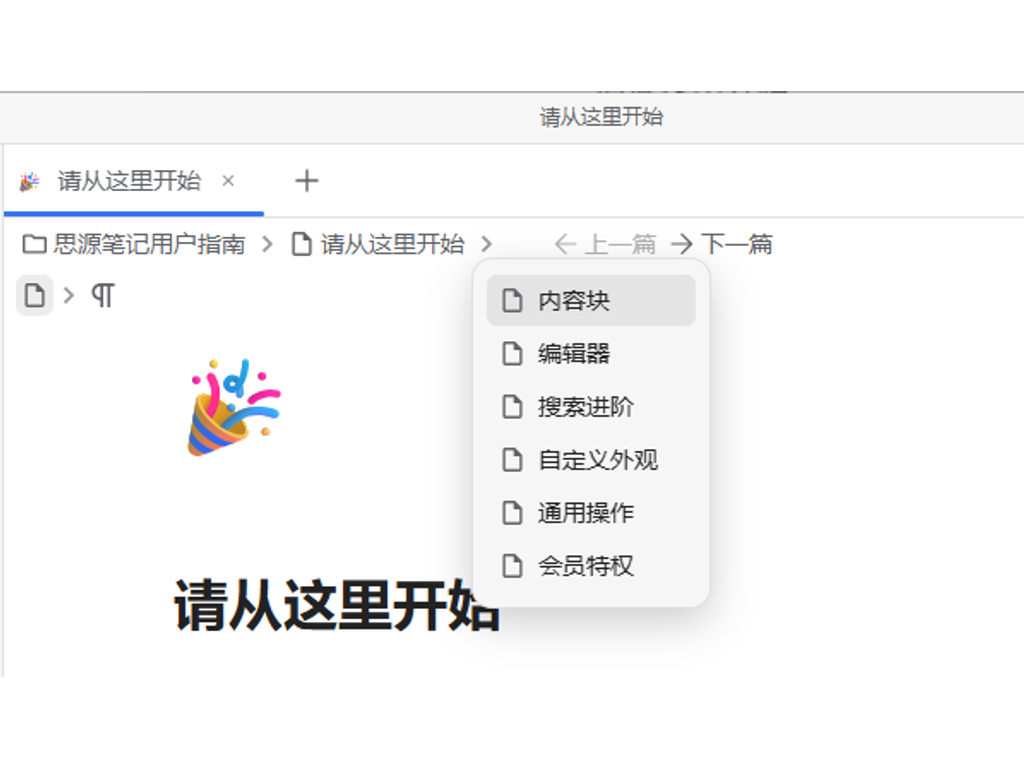
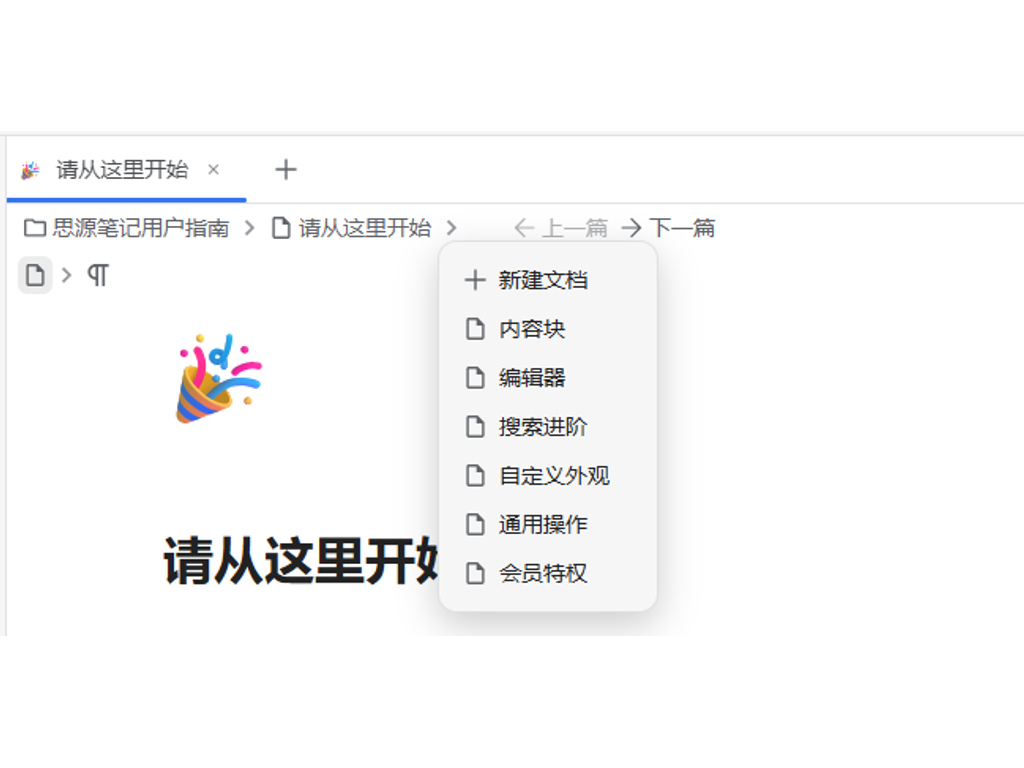
added createDoc

diff --git a/src/worker/contentInjector.ts b/src/worker/contentInjector.ts
@@ -1,11 +1,11 @@
 // 制作和插入面包屑
 
-import { type IProtyle, openTab, Menu } from "siyuan";
-import { type IProtyleInfo, getProtyleInfo, getAdjacentDocs, getChildDocs } from "@/utils/protyleUtils";
-import { removeInjectedFromProtyle } from "@/utils/DOMUtils";
-import { getPluginInstance } from "@/utils/pluginInstance";
+import { type IProtyle, Menu } from "siyuan";
 import { CONSTANTS } from "@/constants";
+import { getPluginInstance } from "@/utils/pluginInstance";
 import * as logger from "@/utils/logger";
+import { removeInjectedFromProtyle } from "@/utils/DOMUtils";
+import { type IProtyleInfo, getProtyleInfo, getAdjacentDocs, getChildDocs, openDocHandler, createDocHandler } from "@/utils/docUtils";
 
 
 /**
@@ -118,6 +118,8 @@ export class ContentInjector {
 
     /**
      * 构建面包屑层级之间的箭头
+     * @param notebookId - 笔记本id
+     * @param path - 文档路径
      * @returns {HTMLElement} - 面包屑箭头元素
      */
     createBreadcrumbArrow(notebookId: string, path: string): HTMLElement {
@@ -130,8 +132,87 @@ export class ContentInjector {
         elem.appendChild(svg);
 
         // 点击事件：打开子文档菜单
-        elem.addEventListener("click", openChildDocsHandler.bind(null, notebookId, path));
+        elem.addEventListener("click", this.listChildDocsHandler.bind(this, notebookId, path));
         return elem;
+    }
+
+    /**
+     * 点击事件：打开子文档菜单
+     * @param notebookId - 笔记本id
+     * @param path - 文档路径
+     * @param event - 鼠标事件
+     */
+    async listChildDocsHandler(notebookId: string, path: string, event: MouseEvent) {
+        // 阻止事件其他行为
+        event.stopPropagation();
+        event.preventDefault();
+
+        // log
+        logger.logDebug(`打开子文档菜单：notebookId=${notebookId}, path=${path}`);
+
+        // 获取信息
+        const i18n = getPluginInstance().i18n;
+
+        // 计算位置
+        // 当前元素（面包屑箭头）的位置信息
+        const currentTarget = event.currentTarget as HTMLElement;
+        const rect = currentTarget.getBoundingClientRect();
+        // 计算菜单最大宽度 = 相邻文档元素最右侧位置 - 面包屑箭头左侧位置
+        const nextTarget = currentTarget.parentElement.nextElementSibling; // 获取“相邻文档”元素
+        const rectNext = nextTarget.getBoundingClientRect();
+        const menuMaxWidth = rectNext.right - rect.left;
+
+        // 获取子文档
+        const childDocs = await getChildDocs(notebookId, path);
+
+        // 构建菜单
+        const menu = new Menu();
+        // 设置菜单项文本最大宽度
+        // const itemStyle = `display: inline-block; max-width: ${menuMaxWidth - Number(CONSTANTS.STYLE_CHILDDOCSMENUITEM_MAXWIDTH_DELTA)}px; overflow: clip; text-overflow: ellipsis;`;
+        // 不设置文本项最大宽度
+        const itemStyle = "";
+
+        // 新建文档项目
+        menu.addItem({
+            icon: "iconAdd",
+            label: `<span title="${i18n.createDoc}" style="${itemStyle}">${i18n.createDoc}</span>`,
+            click: (element, event) => {
+                createDocHandler(notebookId, path, event);
+            }
+        })
+
+        // 对每个子文档构建菜单项目
+        for (let i = 0; i < childDocs.length; i++) {
+            const childDoc = childDocs[i];
+            menu.addItem({
+                icon: "iconFile",
+                label: `<span title="${childDoc.name}" style="${itemStyle}">${childDoc.name}</span>`,
+                click: (element, event) => {
+                    openDocHandler(childDoc.id, event);
+                }
+            })
+        }
+        // 处理没有子文档的情况
+        // 取消原因：有了新建文档后，菜单至少有一项，不需要这个占位符了
+        // if (childDocs.length === 0) {
+        //     menu.addItem({
+        //         icon: "iconInfo",
+        //         label: `<span title="${i18n.noChildDocs}" style="opacity: ${CONSTANTS.STYLE_DISABLED_OPACITY}">${i18n.noChildDocs}</span>`,
+        //     })
+        // }
+
+        // 设置菜单属性
+        const menuElement = menu.element as HTMLElement;
+        if (menuElement) {
+            // menuElement.style.maxWidth = CONSTANTS.STYLE_CHILDDOCSMENU_MAXWIDTH;
+            menuElement.style.maxWidth = `${menuMaxWidth}px`;
+        }
+
+        // 设置打开菜单的位置：菜单左上角=面包屑箭头的左下角
+        menu.open({
+            x: rect.left, y: rect.bottom,
+        })
+
     }
 
     /**
@@ -263,94 +344,5 @@ function createSvg(className: string, iconName: string): SVGElement {
     return svg;
 }
 
-/**
- * 点击事件：打开文档
- * @param docId - 文档id
- * @param event - 鼠标事件
- */
-function openDocHandler(docId: string, event: MouseEvent) {
-    // 阻止事件其他行为
-    event.stopPropagation();
 
-    logger.logDebug(`点击打开文档：docId=${docId}`);
 
-    // 打开新标签页
-    openTab({
-        app: getPluginInstance().app,
-        doc: {
-            id: docId,
-        },
-        // 条件属性：只有在按下辅助按键时才添加position属性
-        // 如果多个键同时按下，后面属性覆盖前面
-        ...(event.altKey && { position: "right" }), // alt+单击时，在右侧打开页签
-        // ...(e.shiftKey && { position: "bottom" }),
-        keepCursor: event.ctrlKey? true : false, // ctrl+单击时，在后台打开页签
-    });
-}
-
-/**
- * 点击事件：打开子文档菜单
- * @param notebookId - 笔记本id
- * @param path - 文档路径
- * @param event - 鼠标事件
- */
-async function openChildDocsHandler(notebookId: string, path: string, event: MouseEvent) {
-    // 阻止事件其他行为
-    event.stopPropagation();
-    event.preventDefault();
-
-    logger.logDebug(`打开子文档菜单：notebookId=${notebookId}, path=${path}`);
-
-    // 获取信息
-    const i18n = getPluginInstance().i18n;
-
-    // 计算位置
-    // 当前元素（面包屑箭头）的位置信息
-    const currentTarget = event.currentTarget as HTMLElement;
-    const rect = currentTarget.getBoundingClientRect();
-    // 计算菜单最大宽度 = 相邻文档元素最右侧位置 - 面包屑箭头左侧位置
-    const nextTarget = currentTarget.parentElement.nextElementSibling; // 获取“相邻文档”元素
-    const rectNext = nextTarget.getBoundingClientRect();
-    const menuMaxWidth = rectNext.right - rect.left;
-
-    // 获取子文档
-    const childDocs = await getChildDocs(notebookId, path);
-
-    // 构建菜单
-    const menu = new Menu();
-    // 设置菜单项文本最大宽度
-    // const itemStyle = `display: inline-block; max-width: ${menuMaxWidth - Number(CONSTANTS.STYLE_CHILDDOCSMENUITEM_MAXWIDTH_DELTA)}px; overflow: clip; text-overflow: ellipsis;`;
-    // 不设置文本项最大宽度
-    const itemStyle = "";
-    // 对每个子文档构建菜单项目
-    for (let i = 0; i < childDocs.length; i++) {
-        const childDoc = childDocs[i];
-        menu.addItem({
-            icon: "iconFile",
-            label: `<span title="${childDoc.name}" style="${itemStyle}">${childDoc.name}</span>`,
-            click: (element, event) => {
-                openDocHandler(childDoc.id, event);
-            }
-        })
-    }
-    // 处理没有子文档的情况
-    if (childDocs.length === 0) {
-        menu.addItem({
-            icon: "iconInfo",
-            label: `<span title="${i18n.noChildDocs}" style="opacity: ${CONSTANTS.STYLE_DISABLED_OPACITY}">${i18n.noChildDocs}</span>`,
-        })
-    }
-
-    // 设置菜单属性
-    const menuElement = menu.element as HTMLElement;
-    if (menuElement) {
-        // menuElement.style.maxWidth = CONSTANTS.STYLE_CHILDDOCSMENU_MAXWIDTH;
-        menuElement.style.maxWidth = `${menuMaxWidth}px`;
-    }
-
-    // 设置打开菜单的位置：菜单左上角=面包屑箭头的左下角
-    menu.open({
-        x: rect.left, y: rect.bottom,
-    })
-
-}

diff --git a/README_zh_CN.md b/README_zh_CN.md
@@ -5,13 +5,13 @@
 
 Gitee仓库：[plugin-doc-breadcrumb-light](https://gitee.com/liao-zh/plugin-doc-breadcrumb-light)
 
-[English](./README.md)
+[English Readme](./README.md)
+
+[更新历史](./CHANGELOG.md)
 
 ## 简介
 
-本插件为思源笔记添加了一个简单便捷的文档面包屑，保持显示在已有的块面包屑的上方，并可快速跳转上一篇/下一篇。
-
-[更新历史](./CHANGELOG.md)
+本插件为思源笔记添加了一个简单便捷的文档面包屑，保持显示在已有的块面包屑的上方。可跳转上一篇/下一篇，列出子文档，新建文档。
 
 ## 如何安装
 
@@ -27,25 +27,48 @@ Gitee仓库：[plugin-doc-breadcrumb-light](https://gitee.com/liao-zh/plugin-doc
 
 预览文档：光标悬停在文本处时，显示对应的全名。悬停在图标处时，显示文档预览。
 
-子文档：单击面包屑层级间的箭头，显示箭头左侧层级的子文档的列表，单击可跳转，也支持Alt/Ctrl+单击。
+子文档：单击面包屑层级间的箭头，显示箭头左侧层级的子文档的列表，单击可跳转，支持Alt/Ctrl+单击。
+
+新建文档：单击面包屑层级间的箭头，在与列出文档的同层级新建文档，支持Alt/Ctrl+单击打开新文档。
 
 ## 代码说明
 
-简单起见，本插件没有设置页面。可以修改`src/constants.ts`中的变量来进行一些设置。
+方法：
+- 设置：可以修改`src/constants.ts`中的变量来进行一些设置。
+- 监听的事件：文档加载（loaded-protyle-static），文档切换（switch-protyle），文档修改（ws-main：moveDoc，rename，removeDoc）。
+- 相邻文档/子文档的查找：用了思源的API[/api/filetree/listDocsByPath](https://docs.siyuan-note.club/zh-Hans/reference/community/siyuan-sdk/kernel/api/filetree.html#listDocsByPath)，默认保持文档树中的顺序。
+- 新建文档：用思源API[/api/filetree/createDocWithMd](https://docs.siyuan-note.club/zh-Hans/reference/community/siyuan-sdk/kernel/api/filetree.html#createDocWithMd)创建文档。
 
-监听的事件：文档加载（loaded-protyle-static），文档切换（switch-protyle），文档修改（ws-main：moveDoc，rename，removeDoc）。
-
-插入的HTML元素：参照了思源块面包屑的DOM结构，使用了相同的类`div.protyle-breadcrumb`，因此继承了样式。
-
-相邻文档的查找：用了思源的API[/api/filetree/listDocsByPath](https://docs.siyuan-note.club/zh-Hans/reference/community/siyuan-sdk/kernel/api/filetree.html#listDocsByPath)，默认保持文档树中的顺序。
+代码结构：（未列出的部分与插件示例相同）
+```bash
+src/
+├── index.ts：插件入口
+├── constants.ts：设置
+├── worker/：用于执行主要功能
+│   ├── eventHandler.ts：监听事件
+│   ├── taskProcessor.ts：处理事件触发的任务
+│   ├── contentInjector.ts：对于每个任务，注入面包屑内容
+├── utils/：提供工具
+│   ├── api.ts：思源API的封装（来自示例）
+│   ├── pluginInstance.ts：插件实例的管理工具
+│   ├── DOMUtils.ts：处理DOM的工具
+│   ├── docUtils.ts：处理文档的工具
+│   ├── logger.ts：日志工具
+```
 
 ## 问题
 
 支持的平台：暂时不支持移动端。
 
-外观：使用集市中或自定义的外观时，如果改变了块面包屑样式，可能会对文档面包屑造成意想不到的改变。
+功能：
+- 新建文档：思源API新建文档用的是hpath，如果开始几个层级的名字相同，看上去会在顺序在前的路径下创建，而不一定在当前路径下。
 
-性能：如果相邻文档数量很多，查找时间可能较长。如果移动文档树，可能会触发大量moveDoc事件，导致插件大量的查找和更新操作。如果速度慢，执行大量操作之前，可以先把所有文档关闭。
+外观：
+- 使用集市中或自定义的外观时，如果改变了块面包屑样式，可能会对文档面包屑造成意想不到的改变。
+
+性能：
+- 如果移动文档树，可能会触发大量moveDoc事件，导致插件大量的查找和更新操作。如果速度慢，可以先把所有文档关闭。
+
 
 ## 参考
 

diff --git a/CHANGELOG.md b/CHANGELOG.md
@@ -1,6 +1,6 @@
 # Change Log
 
-## 0.1.x
+## 0.1.x：文档面包屑，相邻文档，单击跳转
 
 ### 0.1.0（2025-11-28）初版
 
@@ -26,7 +26,7 @@
 代码：
 - 增加了函数注释
 
-## 0.2.x
+## 0.2.x：列出子文档
 
 ### 0.2.0 (2025-12-04)
 
@@ -50,3 +50,10 @@ UI：
 
 功能：
 - 打开：ctrl+单击，在后台打开文档，可与alt+单击同时使用
+
+## 0.3.x：新建文档
+
+### 0.3.0 (2025-12-04)
+
+功能：
+- 新建文档：点击面包屑层级间的箭头，可以新建文档